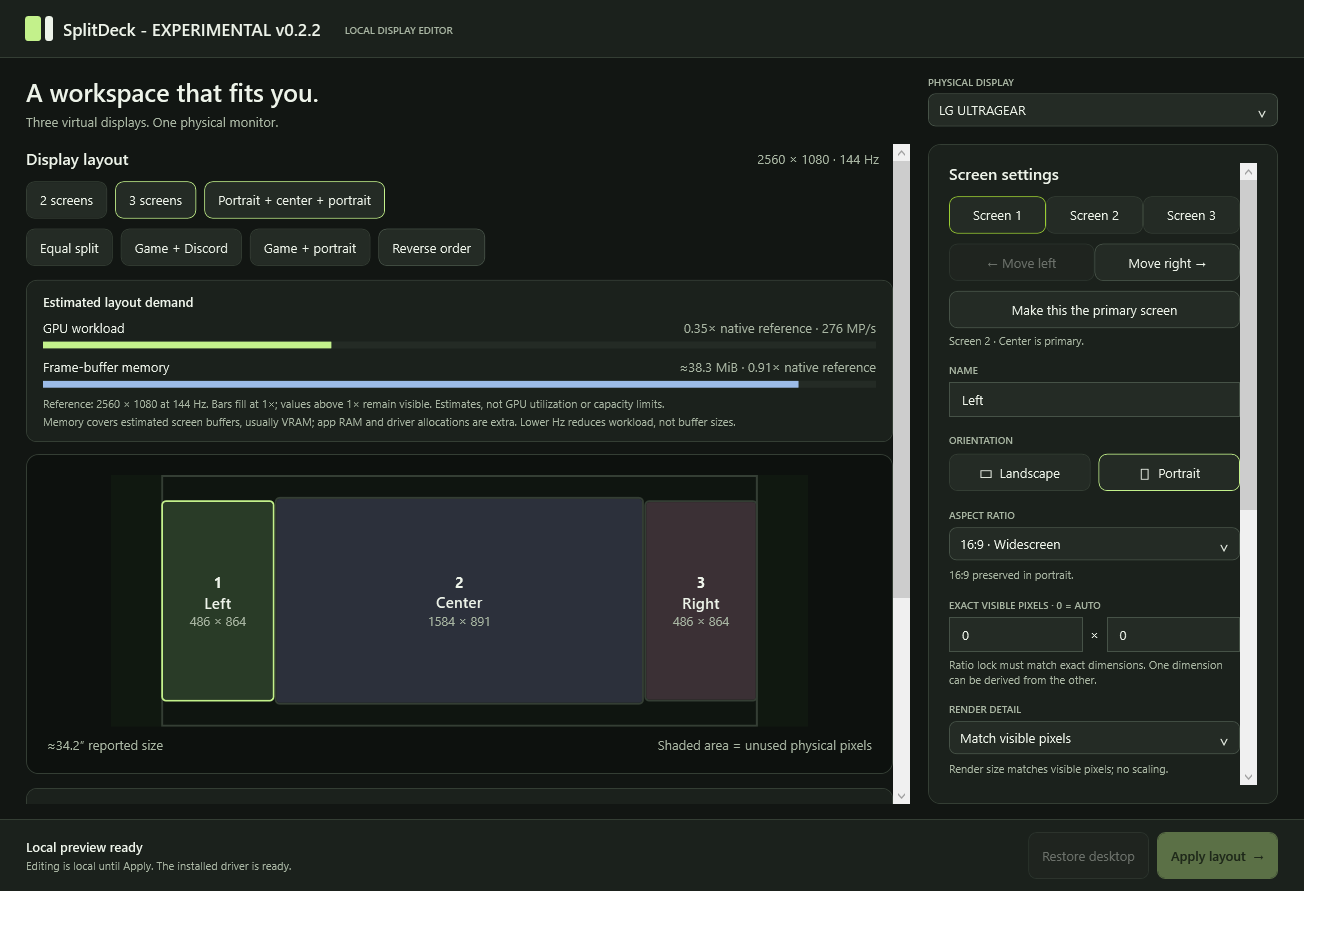
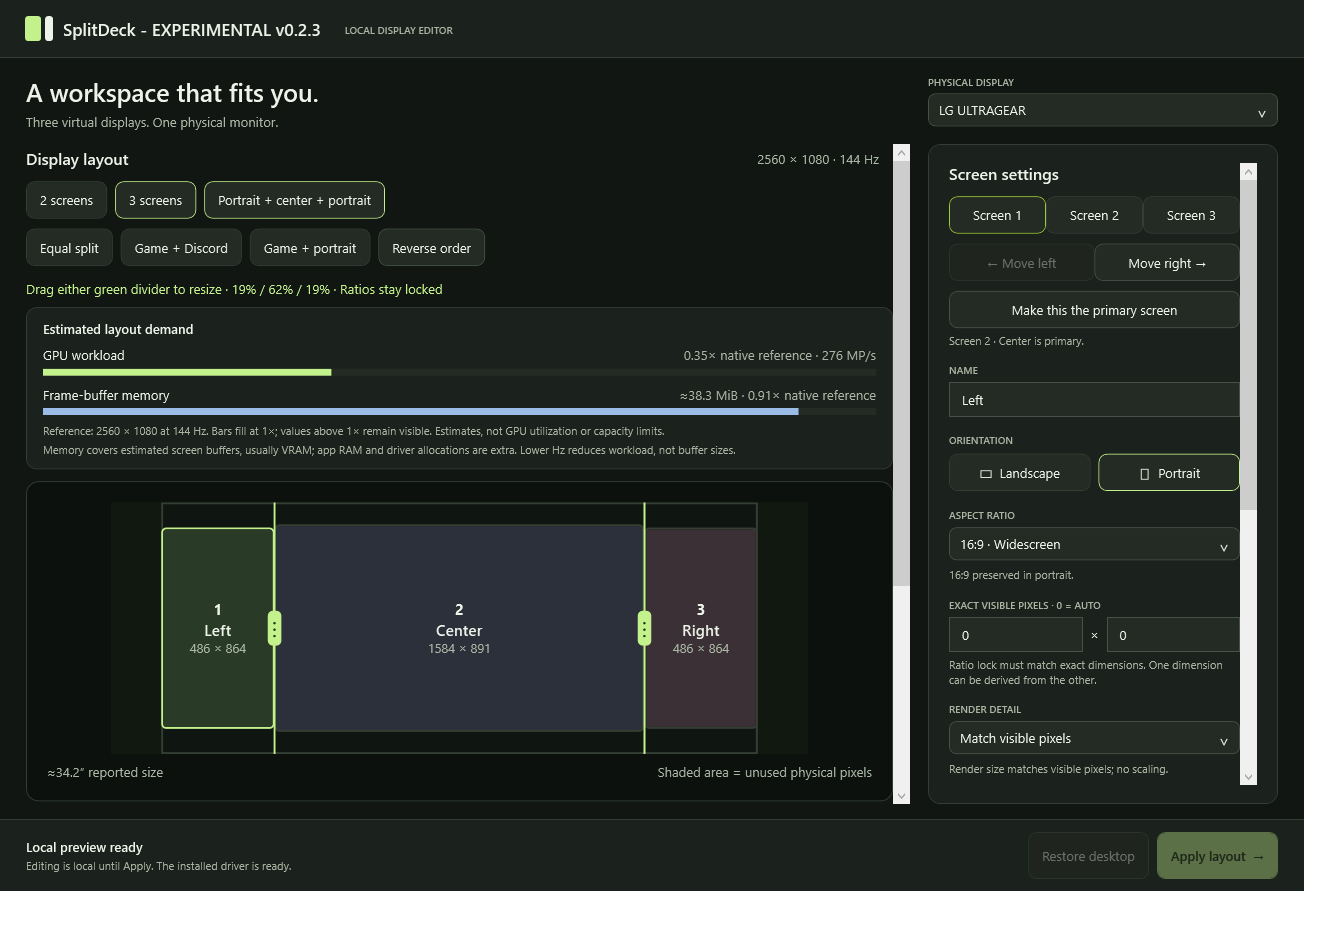
Add draggable three-screen dividers with live preview updates

diff --git a/src/SplitDeck.App/MainWindow.xaml b/src/SplitDeck.App/MainWindow.xaml
@@ -38,7 +38,7 @@
       <DockPanel Margin="25,0" VerticalAlignment="Center">
         <StackPanel Orientation="Horizontal" DockPanel.Dock="Left" VerticalAlignment="Center">
           <Grid Width="28" Height="25" Margin="0,0,10,0"><Grid.ColumnDefinitions><ColumnDefinition Width="16"/><ColumnDefinition Width="4"/><ColumnDefinition Width="8"/></Grid.ColumnDefinitions><Border Grid.Column="0" Background="#C3F18B" CornerRadius="3"/><Border Grid.Column="2" Background="#EDF3E9" CornerRadius="3"/></Grid>
-          <TextBlock Text="SplitDeck - EXPERIMENTAL v0.2.2" FontSize="17" FontWeight="SemiBold" VerticalAlignment="Center"/>
+          <TextBlock Text="SplitDeck - EXPERIMENTAL v0.2.3" FontSize="17" FontWeight="SemiBold" VerticalAlignment="Center"/>
           <TextBlock Text="LOCAL DISPLAY EDITOR" Foreground="{StaticResource Muted}" FontSize="10" FontWeight="SemiBold" Margin="24,3,0,0" VerticalAlignment="Center"/>
         </StackPanel>
       </DockPanel>
@@ -58,6 +58,7 @@
             <Button x:Name="PortraitButton" Content="Game + portrait" Click="PortraitButton_Click" Style="{StaticResource ButtonStyle}" Margin="0,0,8,0"/>
             <Button Content="Reverse order" Click="SwapButton_Click" Style="{StaticResource ButtonStyle}"/>
           </WrapPanel>
+          <TextBlock x:Name="DividerHint" Visibility="Collapsed" Foreground="{StaticResource Accent}" TextWrapping="Wrap" Margin="0,0,0,10"/>
           <Border Background="{StaticResource Panel}" BorderBrush="{StaticResource Line}" BorderThickness="1" CornerRadius="10" Padding="16,12" Margin="0,0,0,12">
             <StackPanel>
               <TextBlock Text="Estimated layout demand" FontWeight="SemiBold" Margin="0,0,0,9"/>
@@ -75,6 +76,10 @@
                 <Border x:Name="PreviewOne" Background="#293B27" BorderBrush="#C3F18B" BorderThickness="2" CornerRadius="4" MouseLeftButtonDown="PreviewOne_Click"><StackPanel HorizontalAlignment="Center" VerticalAlignment="Center"><TextBlock Text="1" FontSize="15" FontWeight="Bold" HorizontalAlignment="Center"/><TextBlock x:Name="PreviewOneName" FontSize="16" FontWeight="SemiBold" HorizontalAlignment="Center"/><TextBlock x:Name="PreviewOneDims" Foreground="{StaticResource Muted}" HorizontalAlignment="Center"/></StackPanel></Border>
                 <Border x:Name="PreviewTwo" Background="#2C303B" BorderBrush="#55615A" BorderThickness="2" CornerRadius="4" MouseLeftButtonDown="PreviewTwo_Click"><StackPanel HorizontalAlignment="Center" VerticalAlignment="Center"><TextBlock Text="2" FontSize="15" FontWeight="Bold" HorizontalAlignment="Center"/><TextBlock x:Name="PreviewTwoName" FontSize="16" FontWeight="SemiBold" HorizontalAlignment="Center"/><TextBlock x:Name="PreviewTwoDims" Foreground="{StaticResource Muted}" HorizontalAlignment="Center"/></StackPanel></Border>
                 <Border x:Name="PreviewThree" Background="#3B3035" BorderBrush="#55615A" BorderThickness="2" CornerRadius="4" MouseLeftButtonDown="PreviewThree_Click" Visibility="Collapsed"><StackPanel HorizontalAlignment="Center" VerticalAlignment="Center"><TextBlock Text="3" FontSize="15" FontWeight="Bold" HorizontalAlignment="Center"/><TextBlock x:Name="PreviewThreeName" FontSize="16" FontWeight="SemiBold" HorizontalAlignment="Center"/><TextBlock x:Name="PreviewThreeDims" Foreground="{StaticResource Muted}" HorizontalAlignment="Center"/></StackPanel></Border>
+                <Thumb x:Name="LeftDivider" Visibility="Collapsed" Width="16" Cursor="SizeWE" Focusable="True" Panel.ZIndex="100" DragStarted="Divider_Started" DragDelta="Divider_Delta" DragCompleted="Divider_Completed" KeyDown="Divider_KeyDown">
+                  <Thumb.Template><ControlTemplate TargetType="Thumb"><Grid Background="Transparent"><Border Width="2" Background="#C3F18B"/><Border Width="14" Height="36" CornerRadius="5" Background="#C3F18B" VerticalAlignment="Center"><TextBlock Text="⋮" FontSize="22" Foreground="#213315" HorizontalAlignment="Center" VerticalAlignment="Center"/></Border></Grid></ControlTemplate></Thumb.Template>
+                </Thumb>
+                <Thumb x:Name="RightDivider" Visibility="Collapsed" Width="16" Cursor="SizeWE" Focusable="True" Panel.ZIndex="100" DragStarted="Divider_Started" DragDelta="Divider_Delta" DragCompleted="Divider_Completed" KeyDown="Divider_KeyDown" Template="{Binding Template,ElementName=LeftDivider}"/>
               </Canvas></Viewbox>
               <DockPanel Grid.Row="1" Margin="0,9,0,0"><TextBlock x:Name="SizeLabel" Foreground="{StaticResource Muted}"/><TextBlock Text="Shaded area = unused physical pixels" Foreground="{StaticResource Muted}" DockPanel.Dock="Right" HorizontalAlignment="Right"/></DockPanel>
             </Grid>

diff --git a/src/SplitDeck.App/MainWindow.EditorRegression.cs b/src/SplitDeck.App/MainWindow.EditorRegression.cs
@@ -29,6 +29,25 @@ public partial class MainWindow
         ExactRefreshInput.Text="999999";if(DemandGpuBar.Value!=0)throw new InvalidOperationException("Unsupported refresh retained old estimate.");
         RenderWidthInput.Text="oops";if(DemandGpuBar.Value!=0)throw new InvalidOperationException("Invalid input retained old estimate.");
         _updating=true;_profile=Presets.Triple(Math.Min(60,PanelLimit));_selected=1;_updating=false;Render();
-        return new{Result="PASS",FocusedDraftFields=fields.Length,DraftSelectionPreserved=true,ExactModeClearsPreset=true,LiveDemandDrafts=true,InvalidDemandCleared=true,ProfilePersistenceDisabled=true,DriverActionsDisabled=true,MutatedDisplaySettings=false};
+        VerifyDividerDragging();
+        return new{Result="PASS",FocusedDraftFields=fields.Length,DraftSelectionPreserved=true,ExactModeClearsPreset=true,LiveDemandDrafts=true,InvalidDemandCleared=true,DividerDragging=true,DividerCancellation=true,ExactVisibleLocks=true,ProfilePersistenceDisabled=true,DriverActionsDisabled=true,MutatedDisplaySettings=false};
+    }
+
+    private void VerifyDividerDragging()
+    {
+        var original=_profile;
+        if(!LeftDivider.IsEnabled||!RightDivider.IsEnabled||LeftDivider.Visibility!=System.Windows.Visibility.Visible)throw new InvalidOperationException("Three-screen drag handles are unavailable.");
+        var before=DemandMemoryValue.Text;
+        static void Start(System.Windows.Controls.Primitives.Thumb t)=>t.RaiseEvent(new System.Windows.Controls.Primitives.DragStartedEventArgs(0,0){RoutedEvent=System.Windows.Controls.Primitives.Thumb.DragStartedEvent});
+        static void Drag(System.Windows.Controls.Primitives.Thumb t,double delta)=>t.RaiseEvent(new System.Windows.Controls.Primitives.DragDeltaEventArgs(delta,0){RoutedEvent=System.Windows.Controls.Primitives.Thumb.DragDeltaEvent});
+        static void End(System.Windows.Controls.Primitives.Thumb t,bool cancel)=>t.RaiseEvent(new System.Windows.Controls.Primitives.DragCompletedEventArgs(0,0,cancel){RoutedEvent=System.Windows.Controls.Primitives.Thumb.DragCompletedEvent});
+        Start(LeftDivider);Drag(LeftDivider,_dividerPanelWidth*.10);
+        if(_profile.FirstShare!=29||_profile.SecondShare!=52||DemandMemoryValue.Text==before)throw new InvalidOperationException("Left divider did not update its neighbors and live estimates.");
+        End(LeftDivider,false);Start(RightDivider);Drag(RightDivider,-_dividerPanelWidth*.05);
+        if(_profile.FirstShare!=29||_profile.SecondShare!=47)throw new InvalidOperationException("Right divider changed the wrong shares.");
+        End(RightDivider,true);if(_profile.FirstShare!=29||_profile.SecondShare!=52)throw new InvalidOperationException("Canceled drag did not restore its initial layout.");
+        _profile=original with{First=original.First with{VisibleWidth=486}};Render();if(LeftDivider.IsEnabled||RightDivider.IsEnabled)throw new InvalidOperationException("Exact visible sizes must lock automatic dividers.");
+        _profile=Presets.Balanced(PanelLimit);Render();if(LeftDivider.Visibility!=System.Windows.Visibility.Collapsed||RightDivider.Visibility!=System.Windows.Visibility.Collapsed)throw new InvalidOperationException("Triple dividers leaked into two-screen layout.");
+        _profile=original;Render();
     }
 }

diff --git a/src/SplitDeck.App/MainWindow.Dividers.cs b/src/SplitDeck.App/MainWindow.Dividers.cs
@@ -1,0 +1,55 @@
+using System.Windows;
+using System.Windows.Controls;
+using System.Windows.Controls.Primitives;
+using System.Windows.Input;
+using SplitDeck.Core;
+
+namespace SplitDeck.App;
+public partial class MainWindow
+{
+ private LayoutProfile? _dividerStart;
+ private double _dividerDelta,_dividerPanelWidth;
+ private void PlaceDividers(double x,double y,double width,double height)
+ {
+  bool triple=_profile.Third is not null;
+  bool locked=_profile.Screens.Any(s=>s.VisibleWidth>0||s.VisibleHeight>0);
+  DividerHint.Visibility=triple?Visibility.Visible:Visibility.Collapsed;
+  DividerHint.Text=locked?"Set exact visible width and height to 0 (automatic) to unlock dragging.":$"Drag either green divider to resize · {_profile.FirstShare}% / {_profile.SecondShare}% / {100-_profile.FirstShare-_profile.SecondShare}% · Ratios stay locked";
+  _dividerPanelWidth=width;
+  Thumb[] handles=[LeftDivider,RightDivider];
+  for(int i=0;i<handles.Length;i++){
+   var handle=handles[i];handle.Visibility=triple?Visibility.Visible:Visibility.Collapsed;handle.IsEnabled=triple&&!locked&&!_busy&&!_invalidInput;
+   handle.Opacity=handle.IsEnabled?1:.3;handle.Cursor=handle.IsEnabled?Cursors.SizeWE:Cursors.Arrow;
+   handle.ToolTip=locked?"Exact visible dimensions lock the columns. Set them to 0 to drag.":"Drag to transfer space between the adjacent screens.";
+   double share=i==0?_profile.FirstShare:_profile.FirstShare+_profile.SecondShare;
+   Canvas.SetLeft(handle,x+width*share/100-8);Canvas.SetTop(handle,y);handle.Height=height;
+  }
+ }
+ private void Divider_Started(object sender,DragStartedEventArgs e){_dividerStart=_profile;_dividerDelta=0;e.Handled=true;}
+ private void Divider_Delta(object sender,DragDeltaEventArgs e)
+ {
+  if(_dividerStart is null||_monitor is null||_dividerPanelWidth<=0)return;
+  _dividerDelta+=e.HorizontalChange;
+  try{
+   var candidate=ColumnResize.Move(_dividerStart,sender==LeftDivider?0:1,_dividerDelta/_dividerPanelWidth*100);
+   LayoutEngine.Calculate(candidate,_monitor.Width,_monitor.Height,_monitor.RefreshHz);
+   _profile=candidate;Render();
+  }catch(ArgumentException){} // Keep the last fitting preview near a geometry limit.
+  e.Handled=true;
+ }
+ private void Divider_Completed(object sender,DragCompletedEventArgs e)
+ {
+  if(_dividerStart is null)return;
+  var original=_dividerStart;_dividerStart=null;
+  if(e.Canceled){_profile=original;Render();}else Changed();
+  e.Handled=true;
+ }
+ private void Divider_KeyDown(object sender,KeyEventArgs e)
+ {
+  if(e.Key==Key.Escape&&sender is Thumb thumb){thumb.CancelDrag();e.Handled=true;return;}
+  if(e.Key is not(Key.Left or Key.Right))return;
+  if(_monitor is null)return;
+  try{var candidate=ColumnResize.Move(_profile,sender==LeftDivider?0:1,e.Key==Key.Left?-1:1);LayoutEngine.Calculate(candidate,_monitor.Width,_monitor.Height,_monitor.RefreshHz);_profile=candidate;Changed();}catch(ArgumentException){}
+  e.Handled=true;
+ }
+}

diff --git a/tests/SplitDeck.Core.Tests/Program.cs b/tests/SplitDeck.Core.Tests/Program.cs
@@ -2,6 +2,8 @@ using SplitDeck.Core;
 
 var tests = new (string Name, Action Run)[]
 {
+    ("divider dragging transfers only neighboring shares and preserves screen settings", DividerNeighbors),
+    ("divider dragging clamps each region and rejects invalid movement", DividerLimits),
     ("layout demand rises with refresh while buffer memory stays fixed", DemandRefresh),
     ("layout demand rises with render resolution and handles three screens", DemandResolution),
     ("layout demand rejects invalid input and preserves fixed reference", DemandValidation),
@@ -254,4 +256,16 @@ static void DemandValidation(){
  VirtualScreenLayout[] s=[new(0,"A",new(0,0,1280,1080),1280,1080,60),new(1,"B",new(1280,0,1280,1080),1280,1080,60)];
  Throws(()=>LayoutDemandEstimator.Estimate(s,0,1080,144));Throws(()=>LayoutDemandEstimator.Estimate(s,2560,1080,double.NaN));Throws(()=>LayoutDemandEstimator.Estimate([s[0] with{RefreshHz=0},s[1]],2560,1080,144));Throws(()=>LayoutDemandEstimator.Estimate([],2560,1080,144));
  var a=LayoutDemandEstimator.Estimate(s,2560,1080,144);if(Math.Abs(a.BufferRatio-1)>1e-9||a.WorkloadRatio>=1)throw new Exception("Reference must stay fixed while changing refresh.");
+}
+
+static void DividerNeighbors(){
+ var p=Presets.Triple(144);var left=ColumnResize.Move(p,0,10);Eq(29,left.FirstShare);Eq(52,left.SecondShare);Eq(19,100-left.FirstShare-left.SecondShare);
+ var right=ColumnResize.Move(p,1,10);Eq(19,right.FirstShare);Eq(72,right.SecondShare);Eq(9,100-right.FirstShare-right.SecondShare);
+ if(left.First!=p.First||left.Second!=p.Second||left.Third!=p.Third||left.PrimaryIndex!=p.PrimaryIndex||left.OutputRefreshHz!=p.OutputRefreshHz)throw new Exception("Dragging must preserve per-screen configuration and primary.");
+ Eq(20,ColumnResize.Move(p,0,.6).FirstShare);Eq(19,ColumnResize.Move(p,0,.4).FirstShare);
+}
+static void DividerLimits(){
+ var p=Presets.Triple(144);var a=ColumnResize.Move(p,0,-10000);Eq(1,a.FirstShare);Eq(80,a.SecondShare);var b=ColumnResize.Move(p,1,10000);Eq(80,b.SecondShare);Eq(1,100-b.FirstShare-b.SecondShare);
+ Throws(()=>ColumnResize.Move(p,2,5));Throws(()=>ColumnResize.Move(p,0,double.NaN));Throws(()=>ColumnResize.Move(Presets.Balanced(144),0,5));
+ foreach(int index in new[]{0,1})foreach(double delta in new[]{-100d,-50d,0d,50d,100d}){var x=ColumnResize.Move(p,index,delta);if(x.FirstShare<1||x.SecondShare<1||x.FirstShare+x.SecondShare>=100)throw new Exception("Invalid share after drag.");LayoutEngine.Calculate(x,2560,1080,144);}
 }

diff --git a/src/SplitDeck.Windows/Diagnostics.cs b/src/SplitDeck.Windows/Diagnostics.cs
@@ -42,7 +42,7 @@ public static class Diagnostics
   var outputs=new List<object>();using(var factory=DXGI.CreateDXGIFactory1<IDXGIFactory1>()){
    for(uint a=0;factory.EnumAdapters1(a,out var adapter).Success;a++)using(adapter){for(uint o=0;adapter.EnumOutputs(o,out var output).Success;o++)using(output){var d=output.Description;outputs.Add(new{Adapter=adapter.Description1.Description,d.DeviceName,AttachedToDesktop=(bool)d.AttachedToDesktop,d.DesktopCoordinates.Left,d.DesktopCoordinates.Top,d.DesktopCoordinates.Right,d.DesktopCoordinates.Bottom});}}
   }
-  await File.WriteAllTextAsync(path,JsonSerializer.Serialize(new{Version="0.2.2-experimental",Windows=Environment.OSVersion.VersionString,monitors,DxgiOutputs=outputs,ManagedDriverInstalled=installed,ManagedDeviceIds=DriverInstallation.OwnedDeviceIds,DriverError=driverError,MutatedDisplaySettings=false},new JsonSerializerOptions{WriteIndented=true}));
+  await File.WriteAllTextAsync(path,JsonSerializer.Serialize(new{Version="0.2.3-experimental",Windows=Environment.OSVersion.VersionString,monitors,DxgiOutputs=outputs,ManagedDriverInstalled=installed,ManagedDeviceIds=DriverInstallation.OwnedDeviceIds,DriverError=driverError,MutatedDisplaySettings=false},new JsonSerializerOptions{WriteIndented=true}));
  }
  public static async Task SmokePresentationAsync(string report)
  {

diff --git a/src/SplitDeck.App/MainWindow.xaml.cs b/src/SplitDeck.App/MainWindow.xaml.cs
@@ -205,6 +205,7 @@ public partial class MainWindow : Window
         PreviewOne.Visibility = Visibility.Collapsed;
         PreviewTwo.Visibility = Visibility.Collapsed;
         PreviewThree.Visibility = Visibility.Collapsed;
+        LeftDivider.Visibility=RightDivider.Visibility=DividerHint.Visibility=Visibility.Collapsed;
         if (_monitor is null)
         {
             MonitorMeta.Text = "No selectable physical display";
@@ -229,6 +230,7 @@ public partial class MainWindow : Window
             var panelH = _monitor.Height * scale;
             var offsetX = (720 - panelW) / 2;
             var offsetY = (260 - panelH) / 2;
+            PlaceDividers(offsetX,offsetY,panelW,panelH);
             PreviewCanvas.Children.OfType<Rectangle>().ToList().ForEach(r => PreviewCanvas.Children.Remove(r));
             var outline = new Rectangle { Width = panelW, Height = panelH,
                 Stroke = (Brush)Resources["Line"], StrokeThickness = 2, Fill = new SolidColorBrush(Color.FromRgb(15, 21, 16)) };

diff --git a/src/SplitDeck.Core/ColumnResize.cs b/src/SplitDeck.Core/ColumnResize.cs
@@ -1,0 +1,15 @@
+namespace SplitDeck.Core;
+public static class ColumnResize
+{
+ public static LayoutProfile Move(LayoutProfile profile,int divider,double percentageDelta)
+ {
+  LayoutEngine.ValidateProfile(profile);
+  if(profile.Third is null||divider is <0 or >1||!double.IsFinite(percentageDelta))throw new ArgumentException("A three-screen layout, divider0 or1 and finite movement are required.");
+  if(profile.Screens.Any(s=>s.VisibleWidth>0||s.VisibleHeight>0))throw new ArgumentException("Set exact visible dimensions to zero to drag automatic columns.");
+  int change=(int)Math.Round(Math.Clamp(percentageDelta,-100,100),MidpointRounding.AwayFromZero);
+  int[] shares=[profile.FirstShare,profile.SecondShare,100-profile.FirstShare-profile.SecondShare];
+  change=Math.Clamp(change,1-shares[divider],shares[divider+1]-1);
+  shares[divider]+=change;shares[divider+1]-=change;
+  return profile with{FirstShare=shares[0],SecondShare=shares[1],Priority=false};
+ }
+}

diff --git a/README.md b/README.md
@@ -2,13 +2,13 @@
 
 SplitDeck is an experimental Windows app that presents two or three virtual monitors on one physical display. You can give each region its own shape, visible size, render resolution and refresh target. A game and Discord can use separate Windows displays while sharing an ultrawide panel.
 
-The current candidate is v0.2.2. It still adds substantial GPU work. In the latest 120/30 Hz comparison, total GPU utilization averaged 29.62% with normal presentation and 26.81% with a diagnostic mode, but their pre-split baselines also differed: 16.0% and 10.4%. CPU use increased from 21.76% to 25.77%, and power use was not consistently lower. This does not establish an overall improvement, so normal presentation remains the default. See the [performance report](docs/performance-v0.2.2.md) for the trial conditions and earlier results. Gaming FPS, latency and equivalence to physical monitors have not been established.
+The current candidate is v0.2.3. It still adds substantial GPU work. In the latest 120/30 Hz comparison, total GPU utilization averaged 29.62% with normal presentation and 26.81% with a diagnostic mode, but their pre-split baselines also differed: 16.0% and 10.4%. CPU use increased from 21.76% to 25.77%, and power use was not consistently lower. This does not establish an overall improvement, so normal presentation remains the default. See the [performance report](docs/performance-v0.2.3.md) for the trial conditions and earlier results. Gaming FPS, latency and equivalence to physical monitors have not been established.
 
 ![SplitDeck Windows editor](docs/editor-preview.png)
 
 ## Download and start
 
-Get `SplitDeck-0.2.2-windows-x64.zip` from [Releases](https://github.com/amirsamidarwish-collab/SplitDeck/releases). Extract the entire ZIP to a folder, then open `SplitDeck.exe`. The portable package includes the .NET runtime and signed driver files; you do not need to install .NET separately. GitHub's source-code ZIP is for building the app and does not contain the portable executable.
+Get `SplitDeck-0.2.3-windows-x64.zip` from [Releases](https://github.com/amirsamidarwish-collab/SplitDeck/releases). Extract the entire ZIP to a folder, then open `SplitDeck.exe`. The portable package includes the .NET runtime and signed driver files; you do not need to install .NET separately. GitHub's source-code ZIP is for building the app and does not contain the portable executable.
 
 1. Select the physical monitor and choose two or three screens. Editing the preview does not change Windows display settings.
 2. Click **Setup driver** if shown, then approve Windows' administrator prompt. Setup prepares the managed devices for the selected screen count and leaves them disabled.
@@ -18,6 +18,9 @@ Get `SplitDeck-0.2.2-windows-x64.zip` from [Releases](https://github.com/amirsam
 This release requires a Windows administrator account for setup and activation. Keep the complete extracted folder together, including `assets`. Read [installation](docs/installation.md) before your first Apply. If setup or restoration fails, use [troubleshooting](docs/troubleshooting.md).
 
 ## Layout controls
+
+In three-screen mode, drag either green divider in the preview to resize its neighboring screens. The percentages, pixel preview and resource estimates update while you drag. Release to save, or press Escape to cancel. The third screen keeps its share. Exact visible dimensions lock the dividers; set those dimensions to `0` for automatic sizing. Aspect ratios remain locked, so a region can contain unused space when its shape reaches the panel height.
+
 
 - Choose two or three ordered regions. The three-screen preset has portrait wings and a landscape center, with the center as primary. You can move regions left or right and choose a different primary screen.
 - Set an aspect ratio and orientation, or use Fill for a free ratio. Exact visible width and height refer to physical pixels. Automatic regions share the space left after exact widths are reserved.

diff --git a/docs/troubleshooting.md b/docs/troubleshooting.md
@@ -4,7 +4,7 @@ If the desktop becomes slow or the cursor stops responding normally, restore bef
 
 ## The download has no executable
 
-Use `SplitDeck-0.2.2-windows-x64.zip` from [Releases](https://github.com/amirsamidarwish-collab/SplitDeck/releases). GitHub's source-code ZIP contains source files. Extract the complete portable ZIP before opening `SplitDeck.exe`; moving only the executable leaves out its runtime and driver assets.
+Use `SplitDeck-0.2.3-windows-x64.zip` from [Releases](https://github.com/amirsamidarwish-collab/SplitDeck/releases). GitHub's source-code ZIP contains source files. Extract the complete portable ZIP before opening `SplitDeck.exe`; moving only the executable leaves out its runtime and driver assets.
 
 ## Setup does nothing or Apply is disabled
 
@@ -38,7 +38,7 @@ Select the app and try Windows+Shift+Left/Right Arrow to move it to another outp
 
 Restore and compare with the normal desktop before continuing. Rendering apps, the virtual driver, desktop capture and Windows composition all contribute to the load.
 
-The latest 120/30 Hz comparison measured 29.62% total GPU utilization with normal presentation and 26.81% with diagnostic immediate presentation. Their pre-split baselines differed, CPU use increased and power use was not consistently lower. Normal presentation remains the default. The [performance report](performance-v0.2.2.md) includes the conditions and earlier 60/60 Hz results. These tests do not measure lost game FPS. Near-physical-monitor overhead has not been achieved, and no gaming-performance guarantee is available.
+The latest 120/30 Hz comparison measured 29.62% total GPU utilization with normal presentation and 26.81% with diagnostic immediate presentation. Their pre-split baselines differed, CPU use increased and power use was not consistently lower. Normal presentation remains the default. The [performance report](performance-v0.2.3.md) includes the conditions and earlier 60/60 Hz results. These tests do not measure lost game FPS. Near-physical-monitor overhead has not been achieved, and no gaming-performance guarantee is available.
 
 Match render resolution to visible pixels to avoid extra detail being downsampled. Lowering a virtual refresh target is an available user choice, but it also reduces that source's update target. The resource bars are estimates of layout demand, not a measurement of actual GPU usage or RAM capacity.
 

diff --git a/docs/installation.md b/docs/installation.md
@@ -8,7 +8,7 @@ Keep the monitor awake and Windows unlocked while setting up or applying a layou
 
 ## Extract the portable package
 
-1. Open [Releases](https://github.com/amirsamidarwish-collab/SplitDeck/releases) and download `SplitDeck-0.2.2-windows-x64.zip`. If the repository is private, GitHub access is required.
+1. Open [Releases](https://github.com/amirsamidarwish-collab/SplitDeck/releases) and download `SplitDeck-0.2.3-windows-x64.zip`. If the repository is private, GitHub access is required.
 2. Use Windows' **Extract All** to unpack the ZIP. `SplitDeck.exe` is at the ZIP's root.
 3. Open `SplitDeck.exe` from the extracted folder. Keep the DLLs, `assets` and other accompanying files there.
 
@@ -16,15 +16,20 @@ The package includes the .NET runtime and driver assets. You do not need a separ
 
 `SplitDeck.exe` is not code signed. The bundled driver DLL and catalog have valid signatures; those signatures do not cover the app executable. Windows may show an unfamiliar-app warning.
 
-The release also provides `SplitDeck-0.2.2-windows-x64.zip.sha256`. To read the ZIP's hash in PowerShell:
+The release also provides `SplitDeck-0.2.3-windows-x64.zip.sha256`. To read the ZIP's hash in PowerShell:
 
 ```powershell
-Get-FileHash .\SplitDeck-0.2.2-windows-x64.zip -Algorithm SHA256
+Get-FileHash .\SplitDeck-0.2.3-windows-x64.zip -Algorithm SHA256
 ```
 
 Compare it with the value in the `.sha256` file. If they differ, download the ZIP again before running it.
 
 ## Choose the layout
+
+For three screens, drag the green handles between the regions in the preview. The left handle adjusts Screens 1 and 2; the right handle adjusts Screens 2 and 3. The remaining screen keeps its share. Release the handle to save the preview, or press Escape to cancel the drag. Apply changes the Windows layout.
+
+If the handles are locked, set exact visible width and height to `0` for each screen. Exact render dimensions can stay set. Ratio locks still apply: use Fill or a different ratio if you want a region to fill more of its column.
+
 
 Select your physical monitor, then choose **2 screens** or **3 screens**. The portrait/center/portrait preset creates three regions and makes the center primary. Select a screen's tab or preview region to edit it.
 
